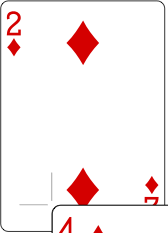
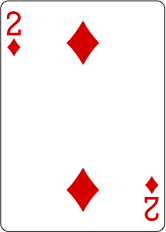
fixed card image issue and added further bootstrap styling and css

diff --git a/public/application.css b/public/application.css
@@ -12,7 +12,8 @@
 }
 
 #bet_form {
-  border: 1px solid #c8c8c8;
+  border: 1px solid rgba(255,255,255,0.1);
+  background-color: #1c1e22;
   padding: 25px;
   border-radius: 5px;
   width: 50%;
@@ -20,9 +21,44 @@
 }
 
 #new_player_form {
-  border: 1px solid #c8c8c8;
+  border: 1px solid rgba(255,255,255,0.1);
+  background-color: #1c1e22;
   padding: 25px;
   border-radius: 5px;
   width: 50%;
   margin: 30px auto 0;
+}
+
+
+.navbar a {
+  font-family: 'Gotham SSm A', 'Gotham SSm B', sans-serif;
+  text-transform: uppercase;
+  font-weight: 500;
+  letter-spacing: 1.5px;
+  text-shadow: none;
+  font-size: 12px;
+}
+
+#logo {
+  font-size: 14px;
+}
+
+.well-header {
+  text-transform: uppercase;
+}
+
+.well-paragraph {
+  font-weight: 350;
+}
+
+.well-btn {
+  margin-left: 0px;
+}
+
+.game-btn {
+  width: 55px;
+}
+
+.play-btn {
+  width: 43px;
 }
